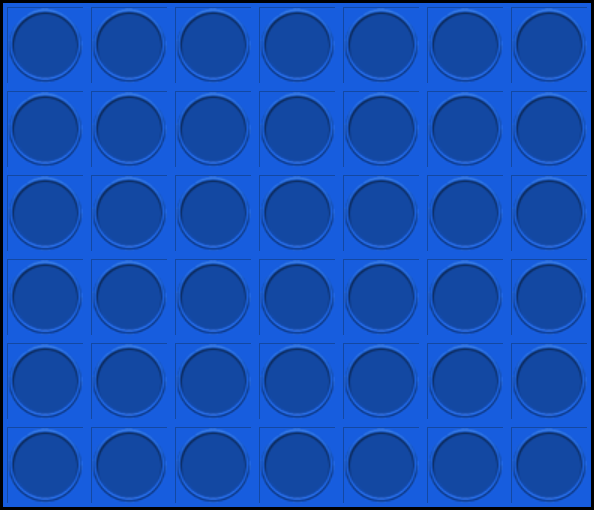
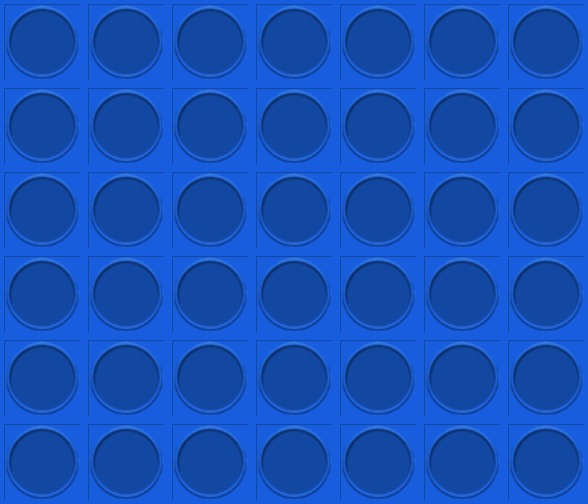
Fixat bild och kalkulerat längd och höjd skillnaden för varje cirkel

diff --git a/src/FyraIRad.java b/src/FyraIRad.java
@@ -15,8 +15,8 @@ import java.io.IOException;
 
 
 public class FyraIRad extends Canvas implements Runnable{
-    private final int width = 700;
-    private final int height = 600;
+    private final int width = 588;
+    private final int height = 554;
 
     private Thread thread;
     int fps = 100;
@@ -59,10 +59,14 @@ public class FyraIRad extends Canvas implements Runnable{
         }
         Graphics g = bs.getDrawGraphics();
 
-        update();
+
+        g.setColor(Color.white);
+        g.drawImage(fyrairad,0,50, null);
+        g.setColor(new Color(255, 0, 0));
+        g.fillOval(7, 58, 70, 70);
+        g.fillOval(92, 141, 70, 70);
         g.dispose();
         bs.show();
-        g.drawImage(fyrairad,100,100, null);
     }
 
 
